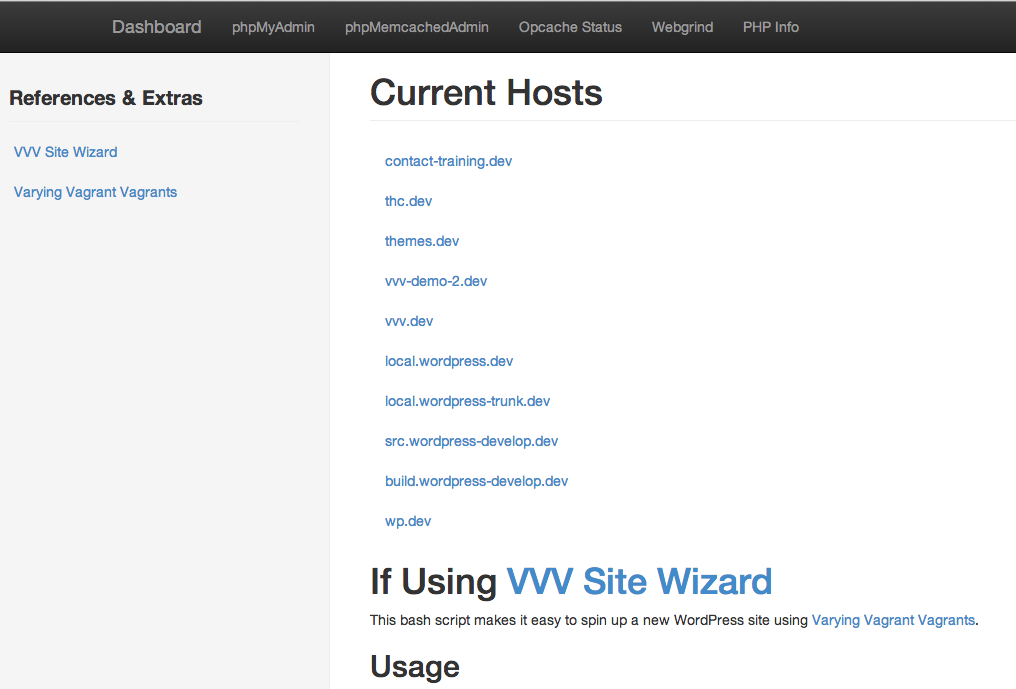
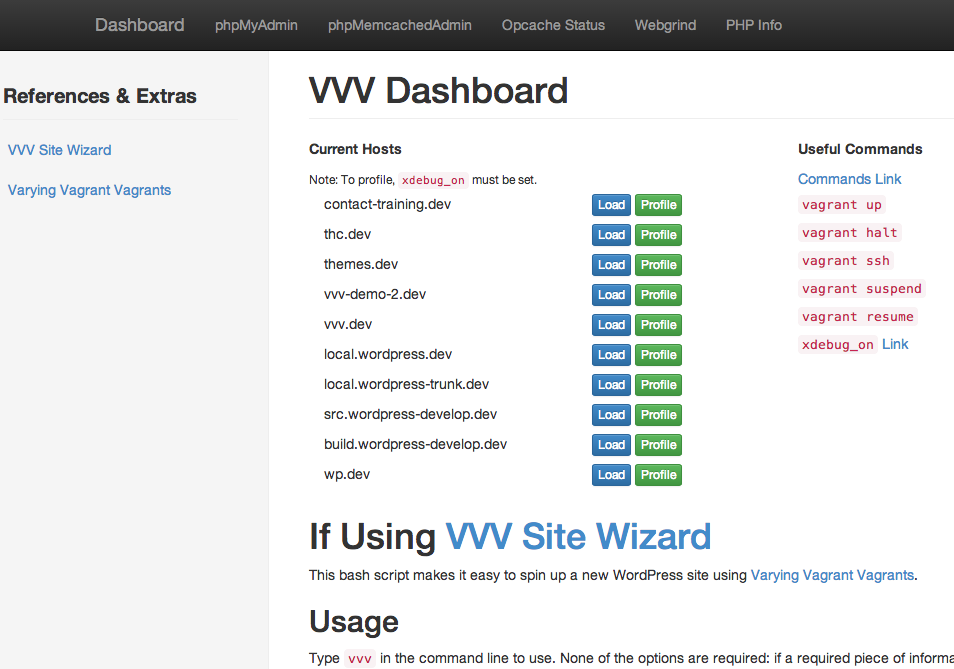
New features, common commands, buttons, etc.. see new screenshot

diff --git a/index.php b/index.php
@@ -102,6 +102,10 @@ $hosts = getHosts( $path );
 		.main .page-header {
 			margin-top: 0;
 		}
+
+		.list-unstyled li {
+			margin: 5px 0 8px 0;
+		}
 	</style>
 	<!--Not really needed-->
 	<!--<link href="//netdna.bootstrapcdn.com/font-awesome/4.1.0/css/font-awesome.min.css" rel="stylesheet">-->
@@ -146,15 +150,43 @@ $hosts = getHosts( $path );
 			</ul>
 		</div>
 		<div class="col-sm-8 col-sm-offset-4 col-md-9 col-md-offset-3 main">
-			<h1 class="page-header">Current Hosts</h1>
-			<ul class="nav">
-				<?php
-				foreach ( $hosts as $host ) {
-					echo '<li><a href="http://' . $host . '/" target="_blank">' . $host . '</a></li>' . "\n";
-				} // end foreach
-				unset( $host ); ?>
-			</ul>
+			<h1 class="page-header">VVV Dashboard</h1>
 
+			<div class="row">
+				<div class="col-sm-7">
+
+					<p><strong>Current Hosts</strong></p>
+					<small>Note: To profile, <code>xdebug_on</code> must be set.</small>
+					<ul class="list-unstyled">
+						<?php
+						foreach ( $hosts as $host ) {
+							echo '<li class="row">
+							<span class=" col-sm-7">' . $host . '</span>
+
+							<div class=" col-sm-5">
+							<a class="btn btn-primary btn-xs" href="http://' . $host . '/" target="_blank">Load</a>
+							<a class="btn btn-success btn-xs" href="http://' . $host . '/?XDEBUG_PROFILE" target="_blank">Profile</a>
+							</div>
+							</li>' . "\n";
+						} // end foreach
+						unset( $host ); ?>
+					</ul>
+
+				</div>
+				<div class="col-sm-5">
+					<p><strong>Useful Commands</strong></p>
+					<a href="https://github.com/varying-vagrant-vagrants/vvv/#now-what" target="_blank">Commands Link</a>
+					<br />
+					<ul class="list-unstyled">
+					<li><code>vagrant up</code></li>
+						<li><code>vagrant halt</code></li>
+						<li><code>vagrant ssh</code></li>
+						<li><code>vagrant suspend</code></li>
+						<li><code>vagrant resume</code></li>
+						<li><code>xdebug_on</code> <a href="https://github.com/Varying-Vagrant-Vagrants/VVV/wiki/Code-Debugging#turning-on-xdebug" target="_blank">Link</a></li>
+				</ul>
+				</div>
+			</div>
 
 			<h1>If Using <a href="https://github.com/aliso/vvv-site-wizard" target="_blank">VVV Site Wizard</a></h1>
 
@@ -168,68 +200,65 @@ $hosts = getHosts( $path );
 				if a required piece of information is not included in the original command,
 				the wizard will prompt you for it.</p>
 
-			<h3>Options</h3>
-
-			<table class="table table-striped">
-					<thead>
-					<tr>
-						<th>Option</th>
-						<th>Name</th>
-						<th>Description</th>
-					</tr>
-					</thead>
-					<tbody>
-					<tr>
-						<td><code>-a</code></td>
-						<td>action</td>
-						<td>
-							<code>new</code>/<code>create</code>/<code>make</code> runs the site creation wizard,
-							<br /><code>rm</code>/<code>delete</code>/<code>teardown</code> runs the site teardown wizard,
-							<br /><code>list</code> lists all current VVV sites
-						</td>
-					</tr>
-					<tr>
-						<td><code>-d</code></td>
-						<td>domain</td>
-						<td>Desired domain (e.g. mysite.dev)</td>
-					</tr>
-					<tr>
-						<td><code>-f</code></td>
-						<td>files only</td>
-						<td>Do not provision Vagrant, just create the site directory and files</td>
-					</tr>
-					<tr>
-						<td><code>-n</code></td>
-						<td>site name</td>
-						<td>Desired name for the site directory (e.g. mysite)</td>
-					</tr>
-					<tr>
-						<td><code>-p</code></td>
-						<td>path</td>
-						<td>Path to VVV root (e.g. ~/vagrant-local)</td>
-					</tr>
-					<tr>
-						<td><code>-v</code></td>
-						<td>version</td>
-						<td>Version of WordPress to install</td>
-					</tr>
-					<tr>
-						<td><code>-x</code></td>
-						<td>debug</td>
-						<td>Turn on WP_DEBUG and WP_DEBUG_LOG</td>
-					</tr>
-					</tbody>
-				</table>
-
-			<p>Examples:</p>
-
-<pre><code>
-vvv -a list
+<pre><code>vvv -a list
 vvv -a new -n mysite -d mysite.dev -v 3.9.1 -x
 vvv -a delete mysite
 </code></pre>
 
+			<h3>Options</h3>
 
+			<table class="table table-striped">
+				<thead>
+				<tr>
+					<th>Option</th>
+					<th>Name</th>
+					<th>Description</th>
+				</tr>
+				</thead>
+				<tbody>
+				<tr>
+					<td><code>-a</code></td>
+					<td>action</td>
+					<td>
+						<code>new</code>/<code>create</code>/<code>make</code> runs the site creation wizard,
+						<br /><code>rm</code>/<code>delete</code>/<code>teardown</code> runs the site teardown wizard,
+						<br /><code>list</code> lists all current VVV sites
+					</td>
+				</tr>
+				<tr>
+					<td><code>-d</code></td>
+					<td>domain</td>
+					<td>Desired domain (e.g. mysite.dev)</td>
+				</tr>
+				<tr>
+					<td><code>-f</code></td>
+					<td>files only</td>
+					<td>Do not provision Vagrant, just create the site directory and files</td>
+				</tr>
+				<tr>
+					<td><code>-n</code></td>
+					<td>site name</td>
+					<td>Desired name for the site directory (e.g. mysite)</td>
+				</tr>
+				<tr>
+					<td><code>-p</code></td>
+					<td>path</td>
+					<td>Path to VVV root (e.g. ~/vagrant-local)</td>
+				</tr>
+				<tr>
+					<td><code>-v</code></td>
+					<td>version</td>
+					<td>Version of WordPress to install</td>
+				</tr>
+				<tr>
+					<td><code>-x</code></td>
+					<td>debug</td>
+					<td>Turn on WP_DEBUG and WP_DEBUG_LOG</td>
+				</tr>
+				</tbody>
+			</table>
+
+			<p>Examples:</p>
 		</div>
 	</div>
 </div>
